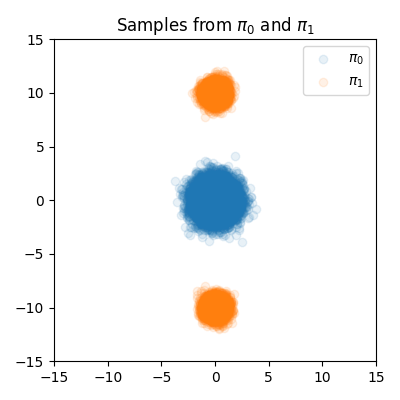
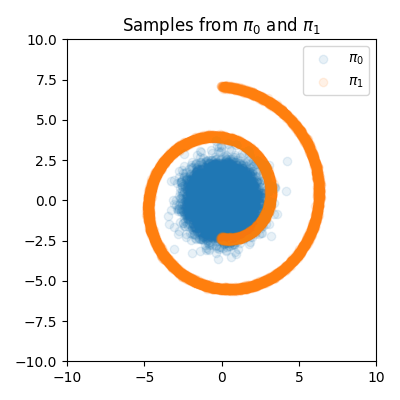
1)set see for reporoducibility 2) modified plot to have 3 subplots of init, target and gen 3) test with tt-rank = 2,10,20,30,40

diff --git a/tt_rectified_flow/tt_rectified_flow.py b/tt_rectified_flow/tt_rectified_flow.py
@@ -1,11 +1,23 @@
+"""TODO
+    1. Make dist figure 3 cols : pi0 pi1 and pi1_gen
+    2. Use GeomLoss Sinkhorn
+"""
+import random
+
 import torch
+import numpy as np
 import matplotlib.pyplot as plt
+from sklearn.datasets import make_swiss_roll
 from torch.distributions import Categorical
 from torch.distributions.multivariate_normal import MultivariateNormal
 from torch.distributions.mixture_same_family import MixtureSameFamily
 
 from functional_tt_fabrique import Extended_TensorTrain, orthpoly
 
+SEED = 42
+torch.manual_seed(SEED)
+random.seed(SEED)
+np.random.seed(SEED)
 
 ######################## Sample ODE #########################
 
@@ -50,33 +62,81 @@ def draw_plot(model, z0, z1, N, tt_rank):
     traj = sample_ode(z0, N)
     # traj = torch.cat([torch.from_numpy(odeint(v, z0[i], torch.linspace(0., 1., steps=N), tfirst=False)) for i in range(z0.shape[0])], axis=0)
 
-    plt.figure(figsize=(4, 4))
-    plt.xlim(*limits)
-    plt.ylim(*limits)
+    fig = plt.figure()
 
-    plt.scatter(
+    # need to set limits as some times we have very large values that shrinks the plot
+    # plt.xlim(*limits)
+    # plt.ylim(*limits)
+
+    ax1 = fig.add_subplot(131)
+    ax2 = fig.add_subplot(132)
+    ax3 = fig.add_subplot(133)
+
+    ax1.set_xlim(*limits)
+    ax1.set_ylim(*limits)
+    ax1.set_title("Init")
+
+    ax2.set_xlim(*limits)
+    ax2.set_ylim(*limits)
+    ax2.set_title("Target")
+
+    ax3.set_xlim(*limits)
+    ax3.set_ylim(*limits)
+    ax3.set_title("Generated")
+
+    fig.suptitle('Distribution Samples')
+
+    ax2.scatter(
         z1[:, 0].cpu().numpy(),
         z1[:, 1].cpu().numpy(),
         label="pi_1",  # r"$\pi_1$",
         alpha=0.15,
+        color="red"
     )
-    plt.scatter(
+
+    ax1.scatter(
         traj[0][:, 0].cpu().numpy(),
         traj[0][:, 1].cpu().numpy(),
         label="pi_0",  # r"$\pi_0$",
         alpha=0.15,
+        color="green"
     )
-    plt.scatter(
+
+    ax3.scatter(
         traj[-1][:, 0].cpu().numpy(),
         traj[-1][:, 1].cpu().numpy(),
         label="Generated",
         alpha=0.15,
+        color="blue"
     )
-    plt.legend()
-    plt.title("Distribution")
-    plt.tight_layout()
-    print(f"Saving gen vs actual samples")
+
+    # plt.figure(figsize=(4, 4))
+
+    # # plot init, target and generated
+    # plt.scatter(
+    #     z1[:, 0].cpu().numpy(),
+    #     z1[:, 1].cpu().numpy(),
+    #     label="pi_1",  # r"$\pi_1$",
+    #     alpha=0.15,
+    # )
+    # plt.scatter(
+    #     traj[0][:, 0].cpu().numpy(),
+    #     traj[0][:, 1].cpu().numpy(),
+    #     label="pi_0",  # r"$\pi_0$",
+    #     alpha=0.15,
+    # )
+    # plt.scatter(
+    #     traj[-1][:, 0].cpu().numpy(),
+    #     traj[-1][:, 1].cpu().numpy(),
+    #     label="Generated",
+    #     alpha=0.15,
+    # )
+    # plt.legend()
+    # plt.title("Distribution")
+    # plt.tight_layout()
+    # print(f"Saving gen vs actual samples")
     plt.savefig(f"generated_vs_actual_samples_{tt_rank}.png")
+
     # traj_particles = torch.stack(traj)
     plt.figure(figsize=(4, 4))
     plt.axis("equal")
@@ -92,7 +152,7 @@ def draw_plot(model, z0, z1, N, tt_rank):
 if __name__ == '__main__':
 
     D = 10.0  # 10.0
-    limits = (-D - 5, D + 5)
+    limits = (-D, D )
     var: float = 0.3
     n_comp: int = 2
     n_samples: int = 10_000
@@ -106,15 +166,21 @@ if __name__ == '__main__':
     # the target distribution is a Gaussian mixture
     target_mix = Categorical(torch.ones(n_comp))
     t = 2 * torch.pi * torch.arange(n_comp) / n_comp
-    mu_target = D * torch.stack([-torch.sin(t), torch.cos(t)],axis=1) # FIXME, stack doesn't get axis param
+    mu_target = D * torch.stack([-torch.sin(t), torch.cos(t)], axis=1)  # FIXME, stack doesn't get axis param
     cov_target = var * torch.stack([torch.eye(2) for i in range(n_comp)])
     target_comp = MultivariateNormal(mu_target, cov_target)
     target_model = MixtureSameFamily(target_mix, target_comp)
     # target_model = MultivariateNormal(D * torch.tensor([1.0, -1.0]), torch.eye(d))
 
     samples_0 = initial_model.sample(torch.Size((n_samples,)))
-    samples_1 = target_model.sample(torch.Size((n_samples,)))
-
+    # samples from Gaussian Mixture
+    # samples_1 = target_model.sample(torch.Size((n_samples,)))
+    # samples from 2D swissroll
+    # Same code from
+    # 1 ) https://github.com/Jmkernes/Diffusion/blob/main/diffusion/ddpm/main.py#L44
+    # 2 ) https://github.com/MaximeVandegar/Papers-in-100-Lines-of-Code/blob/main/Deep_Unsupervised_Learning_using_Nonequilibrium_Thermodynamics/diffusion_models.py#L12
+    # 3 ) https://github.com/mbaddar1/Diffusion/blob/281e453d66d413976bc069c75d736c6df3c4a9de/diffusion/ddpm/main.py#L50
+    samples_1 = torch.tensor(make_swiss_roll(n_samples=n_samples, noise=1e-1)[0][:, [0, 2]] / 2.0)
     # plot the samples
     plt.figure(figsize=(4, 4))
     plt.title(r"Samples from $\pi_0$ and $\pi_1$")
@@ -130,6 +196,7 @@ if __name__ == '__main__':
         alpha=0.1,
         label=r"$\pi_1$",
     )
+
     # plt.scatter(
     #     mu_target[:, 0].cpu(),
     #     mu_target[:, 1].cpu(),
@@ -143,7 +210,8 @@ if __name__ == '__main__':
 
     plt.tight_layout()
     plt.savefig("init_targe_dist.png")
-
+    plt.clf()
+    # sys.exit(-1)
     ################### Samples and targets  #############################################
 
     # M: int = 10  # number of $X_t$ for each tuple (X_0^i, X_1^i)
@@ -179,7 +247,7 @@ if __name__ == '__main__':
 
     print(f"Starting tt fitting")
     ## TT parameters
-    tt_rank = 5
+    tt_rank = 40
     degrees = [tt_rank] * (d + 1)  # hotfix by charles that made the GMM work
     ranks = [1] + [4] * d + [1]
 
@@ -218,5 +286,5 @@ if __name__ == '__main__':
             reg_param=reg_coeff,
         )
         ETT.tt.set_core(d)
-    draw_plot(ETTs, initial_model.sample(torch.Size((n_samples, ))), samples_1, 1000, tt_rank=tt_rank)
+    draw_plot(ETTs, initial_model.sample(torch.Size((n_samples,))), samples_1, 1000, tt_rank=tt_rank)
     #
